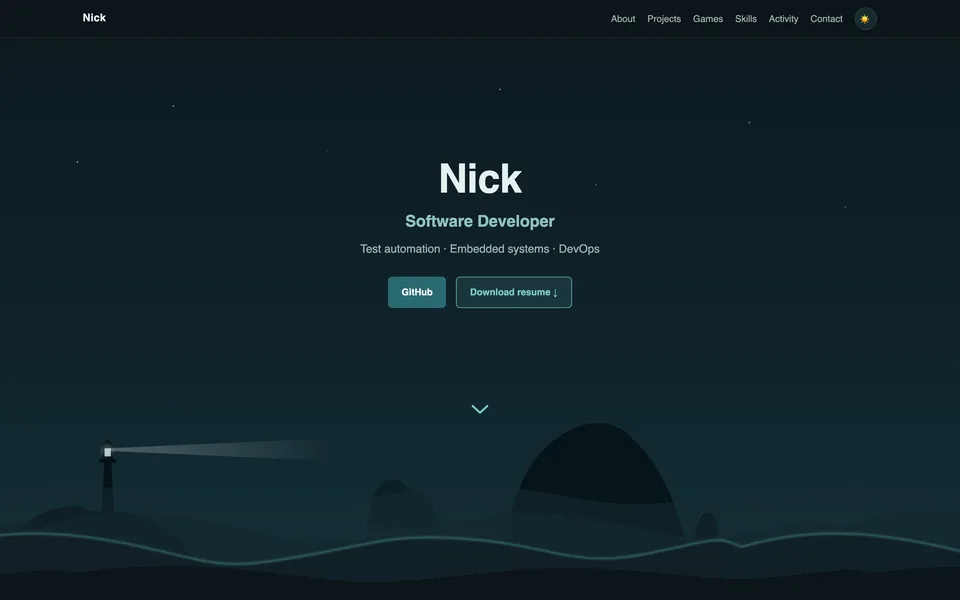
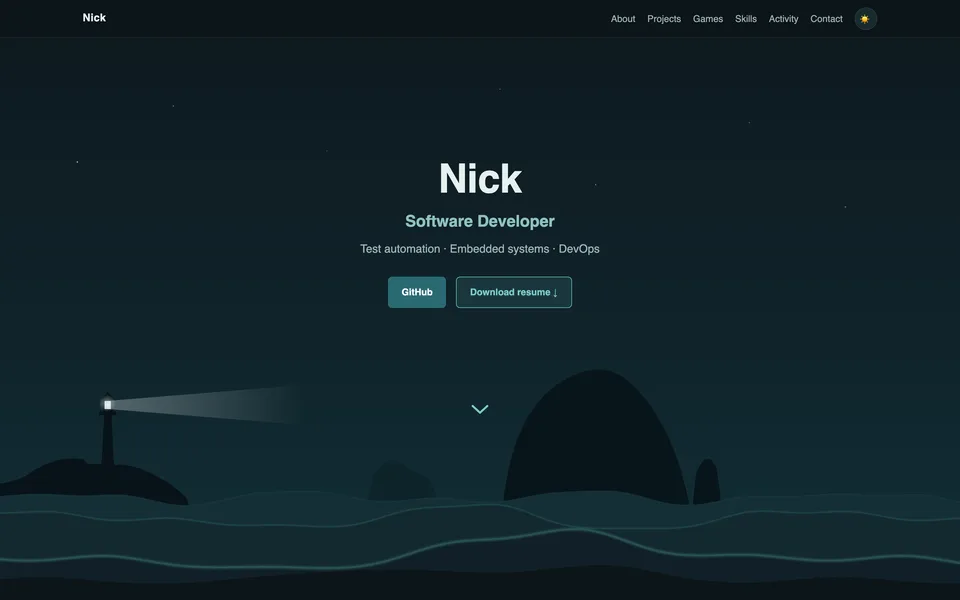
fix(scene): the beam left the lamp as a hairline
The cone was never measured against the thing emitting it. Its box was
42 units tall centred on y=24, and the clip pinched the near end to
45-55% of that - a 4-unit mouth. The lamp window it comes out of is 13
units tall, centred on y=27.5. So a 15px-tall glowing window was firing
a 5px sliver, and firing it three and a half units high.

The box is now 72 units centred on the window's middle, and the clip's
near edges (41/59% of 72) span 13 units - the window's exact height. The
cone leaves the lantern at the size of the opening and opens out to the
full 72 down its length, which is the vertical body it was missing.

Centring on y=27.5 also moves the pivot: transformOrigin is 0 50%, so
the turn now happens about the lamp rather than about a point above it.

Measured in the browser rather than trusted: lamp window mid 749.367px,
beam mid 749.375px, cone mouth 15.19px against the window's 15.23px.
Checked in both the outward pose and the flipped one at 180 degrees.

site-dark.webp is regenerated - the site's own project card is a shot of
this hero, and it was still showing the old sliver. The light shot moved
by encoder noise only; the beam is dark-mode-only and absent from it.

diff --git a/src/components/scene/Shore.tsx b/src/components/scene/Shore.tsx
@@ -93,20 +93,35 @@ export default function Shore() {
             beamTurn drives the beam's scaleX, lampFlash brightens the lantern
             at the same instant (both 8s, matched in globals.css). */}
         <div style={{ opacity: "var(--star-opacity)", transition: "opacity 0.25s ease" }}>
-          {/* The light cone, anchored at the lantern (x=214, y=216 from
-              bottom), reaching out over the open sea to the right. */}
+          {/* The light cone, reaching out over the open sea.
+
+              Its mouth is MEASURED OFF THE LAMP WINDOW - the <rect> at the
+              bottom of this file, x 209-219, y 21-34 of the drawing. Light
+              leaves an opening the size of the opening, so:
+
+                • the box is centred on the window's middle (y=27.5), which is
+                  also where transformOrigin puts the pivot, so the cone turns
+                  about the lamp rather than about a point above it;
+                • the clip's near edges (41%/59% of 72) span 13 units - the
+                  window's exact height - so the cone leaves the lantern at
+                  full size instead of as a hairline;
+                • it opens to the full 72 down its length.
+
+              It used to be a 42-tall box centred on y=24: a 4-unit sliver
+              coming out of a 13-unit window, three and a half units above it.
+              Any change to the window's rect has to be echoed here. */}
           <div
             className="beam-sweep"
             style={{
               position: "absolute",
-              left: "13.375em", // 214 of the 360-wide drawing
-              bottom: "12.1875em", // 195
+              left: "13.375em", // 214 - the lamp window's centre line
+              bottom: "11.03125em", // 176.5, putting the box's middle on y=27.5
               width: "29.375em", // 470
-              height: "2.625em", // 42
+              height: "4.5em", // 72
               transformOrigin: "0 50%",
               background:
                 "linear-gradient(90deg, rgba(233, 242, 242, 0.42), rgba(233, 242, 242, 0) 88%)",
-              clipPath: "polygon(0 45%, 100% 0, 100% 100%, 0 55%)",
+              clipPath: "polygon(0 41%, 100% 0, 100% 100%, 0 59%)",
               animation: "beamTurn 8s linear infinite",
               willChange: "transform, opacity",
             }}
